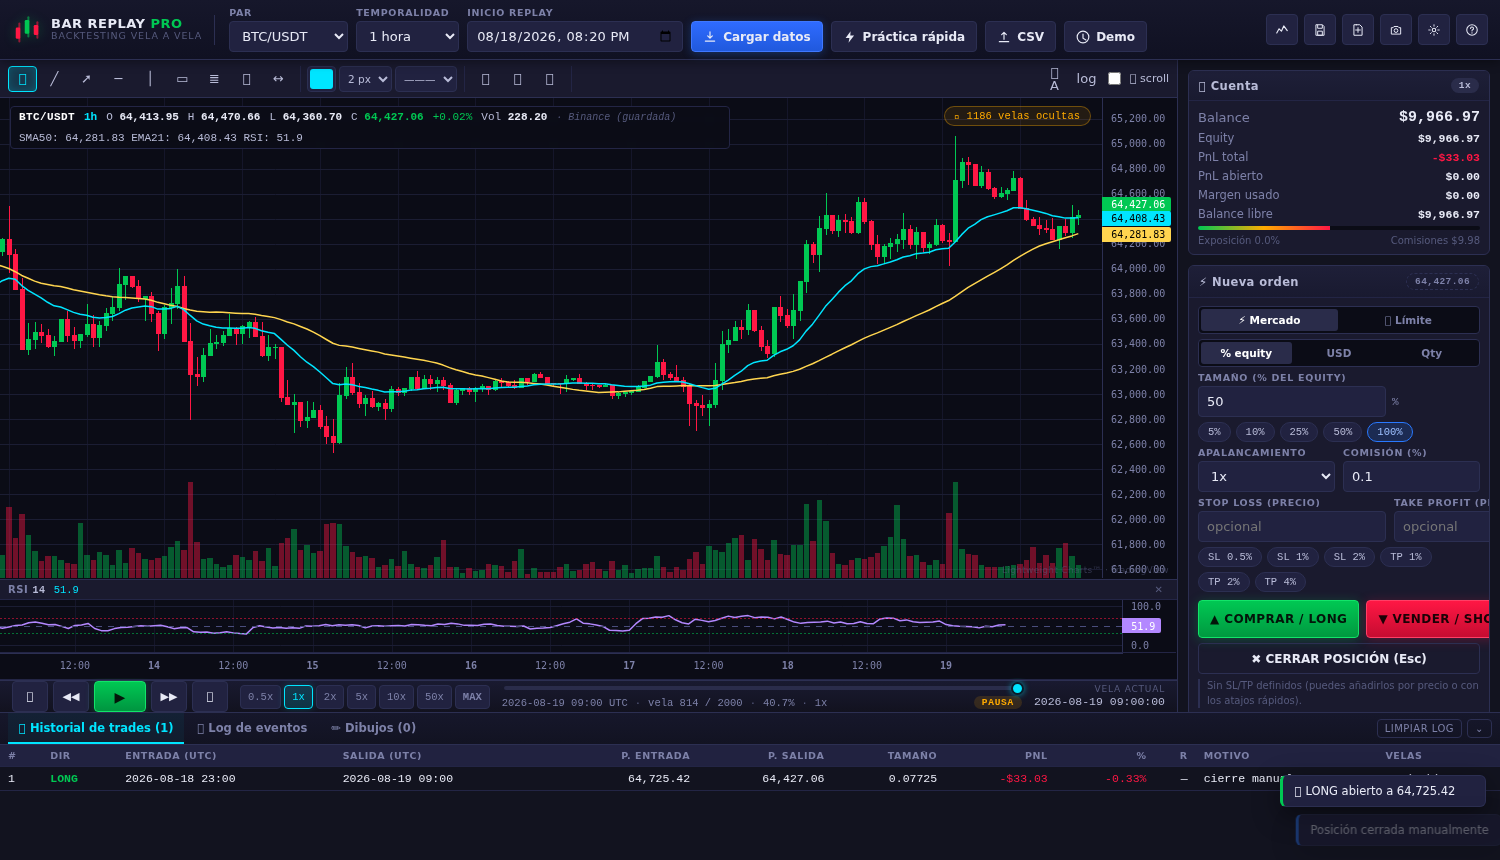
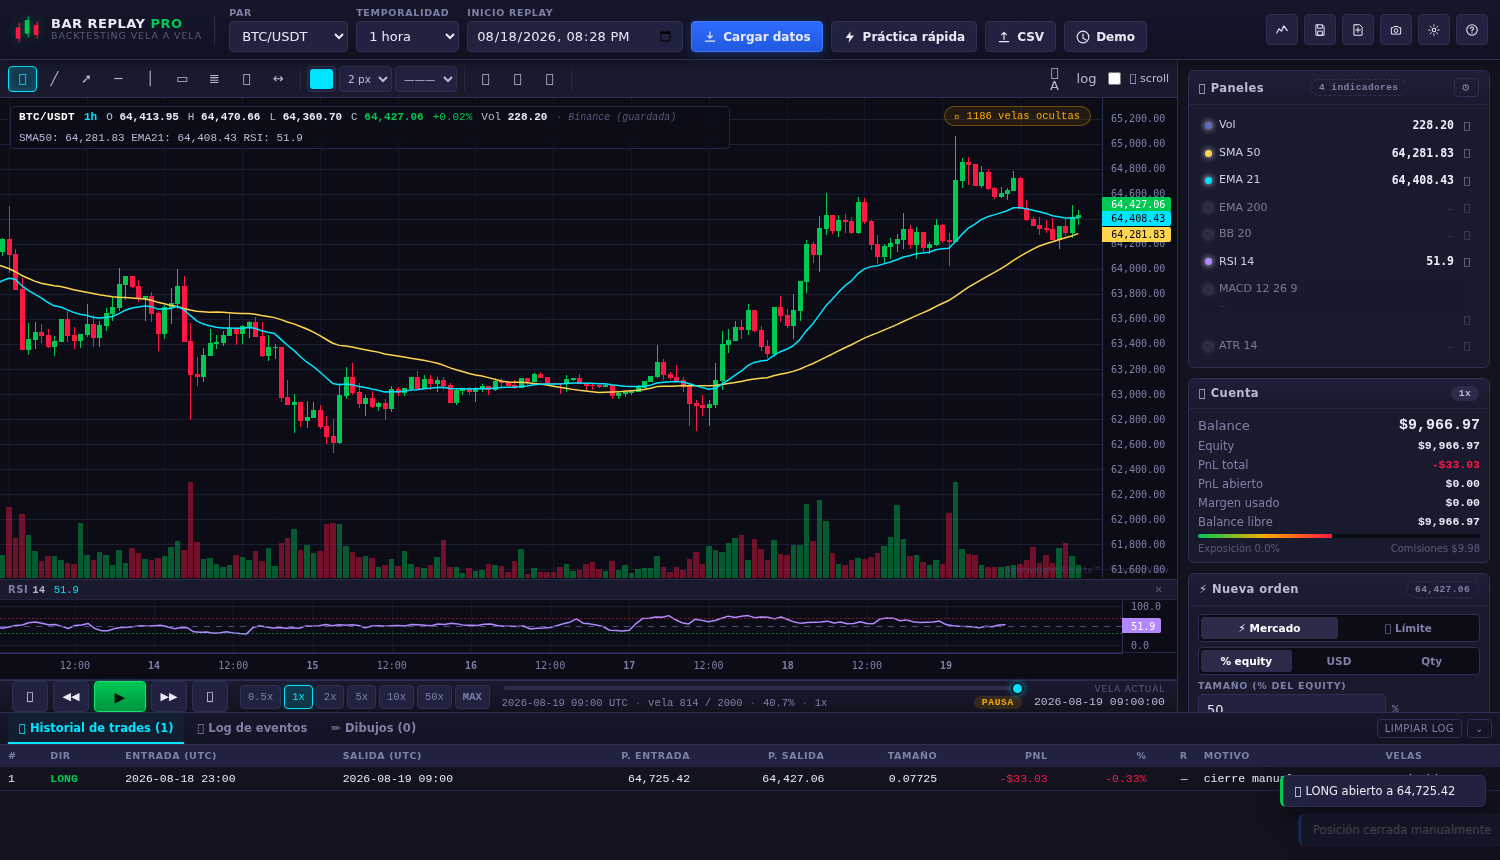
Panel de indicadores con valores en vivo (estilo terminal)
- Tarjeta «📈 Paneles» en la barra lateral: una fila por indicador
- Valores actuales (Vol, SMA, EMA, EMA2, BB, RSI, MACD hist/macd/señal, ATR)
  que se refrescan en cada vela del replay
- Punto de color, ojo 👁 para mostrar/ocultar la serie y clic para configurar
- MACD en dos líneas para que no se recorte en paneles estrechos
- Corregido: el panel se refresca al instante al activar un indicador

diff --git a/bar-replay-pro-unico.html b/bar-replay-pro-unico.html
@@ -397,6 +397,31 @@ tbody tr.loss td:nth-child(8),tbody tr.loss td:nth-child(9){color:var(--down);}
 .pi-eta{color:#ffc857;font-size:10px;margin-top:3px;}
 .hint.ok{color:var(--up);}
 .hint.warn{color:var(--warn);}
+.panels-list{display:flex;flex-direction:column;gap:2px;}
+.pl-item{
+  display:flex;align-items:center;gap:7px;padding:4px 6px;border-radius:5px;
+  cursor:pointer;font-size:11px;line-height:1.35;border:1px solid transparent;
+}
+.pl-item:hover{background:rgba(255,255,255,.045);border-color:var(--line-soft);}
+.pl-item.off{opacity:.45;}
+.pl-dot{width:7px;height:7px;border-radius:50%;flex:0 0 auto;box-shadow:0 0 6px currentColor;}
+.pl-name{color:var(--text-dim);white-space:nowrap;overflow:hidden;text-overflow:ellipsis;min-width:74px;}
+.pl-item.on .pl-name{color:#c9cee8;}
+.pl-vals{display:flex;align-items:center;gap:8px;margin-left:auto;font-family:ui-monospace,SFMono-Regular,Menlo,monospace;}
+.pl-val{font-size:11.5px;color:#eef1ff;}
+.pl-kv{display:flex;align-items:baseline;gap:3px;font-size:10px;color:#8b93b0;}
+.pl-kv i{font-style:normal;opacity:.7;}
+.pl-kv{color:#cfd4ea;}
+.pl-off{color:#4b5170;font-size:10.5px;}
+.pl-eye{
+  border:0;background:transparent;cursor:pointer;font-size:10px;line-height:1;
+  padding:2px 3px;border-radius:4px;opacity:.55;flex:0 0 auto;
+}
+.pl-eye:hover{opacity:1;background:rgba(255,255,255,.08);}
+.pl-item.pl-multi{flex-wrap:wrap;row-gap:1px;}
+.pl-item.pl-multi .pl-name{min-width:0;}
+.pl-item.pl-multi .pl-vals{margin-left:0;width:100%;padding-left:14px;gap:9px;}
+.pl-item.pl-multi .pl-eye{margin-left:auto;}
 /* ==== css/modals.css ==== */
 .modal{
   position:fixed;inset:0;z-index:200;display:none;
@@ -823,6 +848,20 @@ kbd{
 
   <!-- ---------- BARRA LATERAL ---------- -->
   <aside id="sidebar">
+
+    <!-- PANELES DE INDICADORES (estilo OpenMarket): lista con los valores
+         actuales de cada indicador, que se refrescan en cada vela del replay.
+         El botón 👁 muestra u oculta la serie; clic en la fila configura. -->
+    <div class="card" id="panelsCard">
+      <div class="card-head">
+        <span class="card-title">📈 Paneles</span>
+        <span class="tag tag-muted" id="panelsCount">0 indicadores</span>
+        <button class="mini-btn" id="btnPanelsConfig" title="Configurar indicadores">⚙</button>
+      </div>
+      <div class="card-body">
+        <div id="panelsList" class="panels-list"></div>
+      </div>
+    </div>
 
     <!-- CUENTA -->
     <div class="card">
@@ -4866,6 +4905,7 @@ window.BRP_SNAPSHOT = {"savedAt":"2026-10-07 19:19 UTC","note":"Velas reales de 
       e.target.value = '';
     });
     document.getElementById('btnIndicators').addEventListener('click', () => UI.openModal('modalIndicators'));
+    document.getElementById('btnPanelsConfig').addEventListener('click', () => UI.openModal('modalIndicators'));
     document.getElementById('btnSessions').addEventListener('click', () => { UI.renderSessions(); UI.openModal('modalSessions'); });
     document.getElementById('btnExport').addEventListener('click', () => UI.openModal('modalExport'));
     document.getElementById('btnShot').addEventListener('click', () => App.screenshot());
@@ -5180,6 +5220,87 @@ window.BRP_SNAPSHOT = {"savedAt":"2026-10-07 19:19 UTC","note":"Velas reales de 
     }).join('');
   };
 
+  /* ================== PANELES DE INDICADORES (valores vivos) ================== */
+
+  /**
+   * Lista de indicadores con su VALOR ACTUAL, al estilo de OpenMarket: cada fila
+   * muestra el nombre, un botón 👁 para mostrar/ocultar la serie y el último
+   * valor calculado en la vela visible del replay.
+   *
+   * Se refresca en cada vela (UI.refreshAll), así que los números van cambiando
+   * a medida que avanza el replay, igual que en un panel de trading real.
+   */
+  UI.renderPanels = function () {
+    const cont = document.getElementById('panelsList');
+    if (!cont || !CM || !CM.indData) return;
+    const cfg = App.indicators || {};
+    const i = CM._lastIndex;
+    const d = CM.indData;
+    const val = (arr) => (i >= 0 && arr && arr[i] != null && Number.isFinite(arr[i])) ? arr[i] : null;
+    const ultima = App.candles && App.candles[CM._lastIndex];
+    const filas = [];
+
+    const push = (clave, nombre, valores, color, extras) => {
+      const c = cfg[clave] || {};
+      const on = !!c.on;
+      // Solo mostramos los que están activos o los que el usuario tenga puestos
+      filas.push({ clave, nombre, on, color: c.color || color, valores: on ? valores : [], extras });
+    };
+
+    // Volumen (siempre del gráfico principal)
+    push('vol', 'Vol', ultima ? [U.fmtVol(ultima.volume)] : [], '#5c6bc0');
+    push('sma', `SMA ${cfg.sma ? cfg.sma.p : 50}`, fmt1(val(d.sma)), '#ffd54f');
+    push('ema', `EMA ${cfg.ema ? cfg.ema.p : 21}`, fmt1(val(d.ema)), '#00e5ff');
+    push('ema2', `EMA ${cfg.ema2 ? cfg.ema2.p : 200}`, fmt1(val(d.ema2)), '#e040fb');
+    push('bb', `BB ${cfg.bb ? cfg.bb.p : 20}`, fmt1(val(d.bb && d.bb.middle)), '#7c4dff');
+    push('rsi', `RSI ${cfg.rsi ? cfg.rsi.p : 14}`, fmtNum(val(d.rsi), 1), '#b388ff');
+    push('macd', `MACD ${cfg.macd ? cfg.macd.f : 12} ${cfg.macd ? cfg.macd.s : 26} ${cfg.macd ? cfg.macd.sig : 9}`,
+      [['hist', fmtNum(val(d.macd && d.macd.hist), 2)],
+       ['macd', fmtNum(val(d.macd && d.macd.macd), 2)],
+       ['señal', fmtNum(val(d.macd && d.macd.signal), 2)]],
+      '#40c4ff', true);
+    push('atr', `ATR ${cfg.atr ? cfg.atr.p : 14}`, fmtNum(val(d.atr), 2), '#ffab40');
+
+    const activos = filas.filter((f) => f.on).length;
+    const tag = document.getElementById('panelsCount');
+    if (tag) tag.textContent = activos + (activos === 1 ? ' indicador' : ' indicadores');
+
+    cont.innerHTML = filas.map((f) => {
+      const ojo = `<button class="pl-eye" data-eye="${f.clave}" title="${f.on ? 'Ocultar del gráfico' : 'Mostrar en el gráfico'}">${f.on ? '👁' : '🚫'}</button>`;
+      let vals;
+      if (f.extras) {
+        vals = f.valores.map(([etq, v]) => `<span class="pl-kv"><i>${etq}</i>${v}</span>`).join('');
+      } else {
+        vals = f.valores.map((v) => `<b class="pl-val">${v}</b>`).join('');
+      }
+      return `<div class="pl-item ${f.on ? 'on' : 'off'}${f.extras ? ' pl-multi' : ''}" data-key="${f.clave}" title="Clic para configurar ${f.nombre}">` +
+        `<span class="pl-dot" style="background:${f.on ? f.color : '#3a3f5c'}"></span>` +
+        `<span class="pl-name">${f.nombre}</span>` +
+        `<span class="pl-vals">${vals || '<span class="pl-off">—</span>'}</span>` +
+        ojo +
+      `</div>`;
+    }).join('');
+
+    // 👁 mostrar/ocultar sin abrir el modal
+    cont.querySelectorAll('[data-eye]').forEach((b) => {
+      b.addEventListener('click', (ev) => {
+        ev.stopPropagation();
+        const k = b.dataset.eye;
+        if (!App.indicators[k]) App.indicators[k] = { on: false };
+        App.indicators[k].on = !App.indicators[k].on;
+        App.applyIndicators(App.indicators);
+        U.toast((App.indicators[k].on ? 'Mostrando ' : 'Ocultando ') + k.toUpperCase(), 'info', 1500);
+      });
+    });
+    // Clic en la fila → modal de configuración
+    cont.querySelectorAll('.pl-item').forEach((el) => {
+      el.addEventListener('click', () => UI.openModal('modalIndicators'));
+    });
+
+    function fmt1(v) { return v == null ? [] : [U.fmtPrice(v)]; }
+    function fmtNum(v, dec) { return v == null ? [] : [U.num(v, dec)]; }
+  };
+
   /* ============================ ÓRDENES LÍMITE ============================ */
 
   /** Cambia entre orden a mercado (⚡) y orden límite (⏳). */
@@ -5352,6 +5473,7 @@ window.BRP_SNAPSHOT = {"savedAt":"2026-10-07 19:19 UTC","note":"Velas reales de 
     UI.updateHiddenNotice();
     UI.refreshPriceTag();
     UI.renderPending();     // órdenes límite en espera
+    UI.renderPanels();      // lista de indicadores con su valor actual
     UI.updateLimitHint && UI.updateLimitHint();
   };
 
@@ -6063,6 +6185,7 @@ window.BRP_SNAPSHOT = {"savedAt":"2026-10-07 19:19 UTC","note":"Velas reales de 
     UI.syncIndicatorModalFromConfig(cfg);
     CM.refresh(BR.getIndex());     // reconstruye hasta la vela actual del replay
     DT.render();
+    UI.renderPanels && UI.renderPanels();   // la lista de paneles refleja el cambio al instante
     if (!silent) {
       const on = Object.keys(cfg).filter((k) => cfg[k].on);
       U.log('📈 Indicadores activos: ' + (on.length ? on.join(', ').toUpperCase() : 'ninguno'), 'sys');

diff --git a/js/uiController.js b/js/uiController.js
@@ -62,6 +62,7 @@
       e.target.value = '';
     });
     document.getElementById('btnIndicators').addEventListener('click', () => UI.openModal('modalIndicators'));
+    document.getElementById('btnPanelsConfig').addEventListener('click', () => UI.openModal('modalIndicators'));
     document.getElementById('btnSessions').addEventListener('click', () => { UI.renderSessions(); UI.openModal('modalSessions'); });
     document.getElementById('btnExport').addEventListener('click', () => UI.openModal('modalExport'));
     document.getElementById('btnShot').addEventListener('click', () => App.screenshot());
@@ -376,6 +377,87 @@
     }).join('');
   };
 
+  /* ================== PANELES DE INDICADORES (valores vivos) ================== */
+
+  /**
+   * Lista de indicadores con su VALOR ACTUAL, al estilo de OpenMarket: cada fila
+   * muestra el nombre, un botón 👁 para mostrar/ocultar la serie y el último
+   * valor calculado en la vela visible del replay.
+   *
+   * Se refresca en cada vela (UI.refreshAll), así que los números van cambiando
+   * a medida que avanza el replay, igual que en un panel de trading real.
+   */
+  UI.renderPanels = function () {
+    const cont = document.getElementById('panelsList');
+    if (!cont || !CM || !CM.indData) return;
+    const cfg = App.indicators || {};
+    const i = CM._lastIndex;
+    const d = CM.indData;
+    const val = (arr) => (i >= 0 && arr && arr[i] != null && Number.isFinite(arr[i])) ? arr[i] : null;
+    const ultima = App.candles && App.candles[CM._lastIndex];
+    const filas = [];
+
+    const push = (clave, nombre, valores, color, extras) => {
+      const c = cfg[clave] || {};
+      const on = !!c.on;
+      // Solo mostramos los que están activos o los que el usuario tenga puestos
+      filas.push({ clave, nombre, on, color: c.color || color, valores: on ? valores : [], extras });
+    };
+
+    // Volumen (siempre del gráfico principal)
+    push('vol', 'Vol', ultima ? [U.fmtVol(ultima.volume)] : [], '#5c6bc0');
+    push('sma', `SMA ${cfg.sma ? cfg.sma.p : 50}`, fmt1(val(d.sma)), '#ffd54f');
+    push('ema', `EMA ${cfg.ema ? cfg.ema.p : 21}`, fmt1(val(d.ema)), '#00e5ff');
+    push('ema2', `EMA ${cfg.ema2 ? cfg.ema2.p : 200}`, fmt1(val(d.ema2)), '#e040fb');
+    push('bb', `BB ${cfg.bb ? cfg.bb.p : 20}`, fmt1(val(d.bb && d.bb.middle)), '#7c4dff');
+    push('rsi', `RSI ${cfg.rsi ? cfg.rsi.p : 14}`, fmtNum(val(d.rsi), 1), '#b388ff');
+    push('macd', `MACD ${cfg.macd ? cfg.macd.f : 12} ${cfg.macd ? cfg.macd.s : 26} ${cfg.macd ? cfg.macd.sig : 9}`,
+      [['hist', fmtNum(val(d.macd && d.macd.hist), 2)],
+       ['macd', fmtNum(val(d.macd && d.macd.macd), 2)],
+       ['señal', fmtNum(val(d.macd && d.macd.signal), 2)]],
+      '#40c4ff', true);
+    push('atr', `ATR ${cfg.atr ? cfg.atr.p : 14}`, fmtNum(val(d.atr), 2), '#ffab40');
+
+    const activos = filas.filter((f) => f.on).length;
+    const tag = document.getElementById('panelsCount');
+    if (tag) tag.textContent = activos + (activos === 1 ? ' indicador' : ' indicadores');
+
+    cont.innerHTML = filas.map((f) => {
+      const ojo = `<button class="pl-eye" data-eye="${f.clave}" title="${f.on ? 'Ocultar del gráfico' : 'Mostrar en el gráfico'}">${f.on ? '👁' : '🚫'}</button>`;
+      let vals;
+      if (f.extras) {
+        vals = f.valores.map(([etq, v]) => `<span class="pl-kv"><i>${etq}</i>${v}</span>`).join('');
+      } else {
+        vals = f.valores.map((v) => `<b class="pl-val">${v}</b>`).join('');
+      }
+      return `<div class="pl-item ${f.on ? 'on' : 'off'}${f.extras ? ' pl-multi' : ''}" data-key="${f.clave}" title="Clic para configurar ${f.nombre}">` +
+        `<span class="pl-dot" style="background:${f.on ? f.color : '#3a3f5c'}"></span>` +
+        `<span class="pl-name">${f.nombre}</span>` +
+        `<span class="pl-vals">${vals || '<span class="pl-off">—</span>'}</span>` +
+        ojo +
+      `</div>`;
+    }).join('');
+
+    // 👁 mostrar/ocultar sin abrir el modal
+    cont.querySelectorAll('[data-eye]').forEach((b) => {
+      b.addEventListener('click', (ev) => {
+        ev.stopPropagation();
+        const k = b.dataset.eye;
+        if (!App.indicators[k]) App.indicators[k] = { on: false };
+        App.indicators[k].on = !App.indicators[k].on;
+        App.applyIndicators(App.indicators);
+        U.toast((App.indicators[k].on ? 'Mostrando ' : 'Ocultando ') + k.toUpperCase(), 'info', 1500);
+      });
+    });
+    // Clic en la fila → modal de configuración
+    cont.querySelectorAll('.pl-item').forEach((el) => {
+      el.addEventListener('click', () => UI.openModal('modalIndicators'));
+    });
+
+    function fmt1(v) { return v == null ? [] : [U.fmtPrice(v)]; }
+    function fmtNum(v, dec) { return v == null ? [] : [U.num(v, dec)]; }
+  };
+
   /* ============================ ÓRDENES LÍMITE ============================ */
 
   /** Cambia entre orden a mercado (⚡) y orden límite (⏳). */
@@ -548,6 +630,7 @@
     UI.updateHiddenNotice();
     UI.refreshPriceTag();
     UI.renderPending();     // órdenes límite en espera
+    UI.renderPanels();      // lista de indicadores con su valor actual
     UI.updateLimitHint && UI.updateLimitHint();
   };
 

diff --git a/css/panels.css b/css/panels.css
@@ -106,3 +106,34 @@
 /* Pista del precio límite: verde si es un nivel válido, ámbar si se cruza */
 .hint.ok{color:var(--up);}
 .hint.warn{color:var(--warn);}
+
+/* ============== PANELES DE INDICADORES (lista con valores vivos) ============== */
+/* Estilo de panel de trading: una fila por indicador con su punto de color,
+   el nombre, el valor actual y un ojo para mostrarlo u ocultarlo en el gráfico. */
+.panels-list{display:flex;flex-direction:column;gap:2px;}
+.pl-item{
+  display:flex;align-items:center;gap:7px;padding:4px 6px;border-radius:5px;
+  cursor:pointer;font-size:11px;line-height:1.35;border:1px solid transparent;
+}
+.pl-item:hover{background:rgba(255,255,255,.045);border-color:var(--line-soft);}
+.pl-item.off{opacity:.45;}
+.pl-dot{width:7px;height:7px;border-radius:50%;flex:0 0 auto;box-shadow:0 0 6px currentColor;}
+.pl-name{color:var(--text-dim);white-space:nowrap;overflow:hidden;text-overflow:ellipsis;min-width:74px;}
+.pl-item.on .pl-name{color:#c9cee8;}
+.pl-vals{display:flex;align-items:center;gap:8px;margin-left:auto;font-family:ui-monospace,SFMono-Regular,Menlo,monospace;}
+.pl-val{font-size:11.5px;color:#eef1ff;}
+.pl-kv{display:flex;align-items:baseline;gap:3px;font-size:10px;color:#8b93b0;}
+.pl-kv i{font-style:normal;opacity:.7;}
+.pl-kv{color:#cfd4ea;}
+.pl-off{color:#4b5170;font-size:10.5px;}
+.pl-eye{
+  border:0;background:transparent;cursor:pointer;font-size:10px;line-height:1;
+  padding:2px 3px;border-radius:4px;opacity:.55;flex:0 0 auto;
+}
+.pl-eye:hover{opacity:1;background:rgba(255,255,255,.08);}
+/* Indicadores con varios valores (MACD): nombre arriba y valores en su línea,
+   así no se recorta nada en paneles estrechos. */
+.pl-item.pl-multi{flex-wrap:wrap;row-gap:1px;}
+.pl-item.pl-multi .pl-name{min-width:0;}
+.pl-item.pl-multi .pl-vals{margin-left:0;width:100%;padding-left:14px;gap:9px;}
+.pl-item.pl-multi .pl-eye{margin-left:auto;}

diff --git a/index.html b/index.html
@@ -299,6 +299,20 @@
   <!-- ---------- BARRA LATERAL ---------- -->
   <aside id="sidebar">
 
+    <!-- PANELES DE INDICADORES (estilo OpenMarket): lista con los valores
+         actuales de cada indicador, que se refrescan en cada vela del replay.
+         El botón 👁 muestra u oculta la serie; clic en la fila configura. -->
+    <div class="card" id="panelsCard">
+      <div class="card-head">
+        <span class="card-title">📈 Paneles</span>
+        <span class="tag tag-muted" id="panelsCount">0 indicadores</span>
+        <button class="mini-btn" id="btnPanelsConfig" title="Configurar indicadores">⚙</button>
+      </div>
+      <div class="card-body">
+        <div id="panelsList" class="panels-list"></div>
+      </div>
+    </div>
+
     <!-- CUENTA -->
     <div class="card">
       <div class="card-head"><span class="card-title">💼 Cuenta</span>

diff --git a/js/app.js b/js/app.js
@@ -375,6 +375,7 @@
     UI.syncIndicatorModalFromConfig(cfg);
     CM.refresh(BR.getIndex());     // reconstruye hasta la vela actual del replay
     DT.render();
+    UI.renderPanels && UI.renderPanels();   // la lista de paneles refleja el cambio al instante
     if (!silent) {
       const on = Object.keys(cfg).filter((k) => cfg[k].on);
       U.log('📈 Indicadores activos: ' + (on.length ? on.join(', ').toUpperCase() : 'ninguno'), 'sys');
